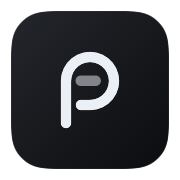
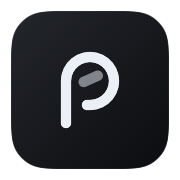
Make historical visual requests readable and refine the Pace mark

Changed region(s): [[0.4167, 0.3889, 0.5833, 0.5], [0.4167, 0.5278, 0.4722, 0.6389]]

diff --git a/leanring-buddy/PacePanelChatView.swift b/leanring-buddy/PacePanelChatView.swift
@@ -30,6 +30,7 @@ struct PacePanelChatView: View {
 
     @State private var showsHistory = false
     @State private var selectedQuestionIdentifier: String?
+    @State private var expandedOriginalResponseIdentifiers: Set<String> = []
     @FocusState private var isInputFocused: Bool
     @Environment(\.accessibilityReduceMotion) private var reduceMotion
 
@@ -488,14 +489,39 @@ struct PacePanelChatView: View {
 
     private func messageRow(_ message: PaceChatMessage) -> some View {
         let isFromUser = message.role == .user
-        return Text(readableMessage(message.body))
-            .font(.system(size: isFromUser ? 17 : 14, weight: isFromUser ? .medium : .regular))
-            .tracking(isFromUser ? -0.3 : 0)
-            .lineSpacing(isFromUser ? 4 : 6)
-            .foregroundStyle(isFromUser ? DS.Colors.textPrimary : DS.Colors.textPrimary.opacity(0.9))
-            .textSelection(.enabled)
-            .frame(maxWidth: .infinity, alignment: .leading)
-            .padding(.top, isFromUser && message.id != visibleMessages.first?.id ? 16 : 0)
+        let displayedBody = PaceChatTranscriptModel.displayedBodyText(forChatMessage: message)
+        let hasOriginalResponse = !isFromUser && displayedBody != message.body
+        let showsOriginal = expandedOriginalResponseIdentifiers.contains(message.id)
+        return VStack(alignment: .leading, spacing: 8) {
+            Text(readableMessage(displayedBody))
+                .font(.system(size: isFromUser ? 15 : 14, weight: isFromUser ? .medium : .regular))
+                .tracking(isFromUser ? -0.15 : 0)
+                .lineSpacing(isFromUser ? 4 : 5)
+                .foregroundStyle(isFromUser ? DS.Colors.textPrimary : DS.Colors.textPrimary.opacity(0.9))
+                .textSelection(.enabled)
+            if hasOriginalResponse {
+                Button(showsOriginal ? "Hide original response" : "View original response") {
+                    if showsOriginal {
+                        expandedOriginalResponseIdentifiers.remove(message.id)
+                    } else {
+                        expandedOriginalResponseIdentifiers.insert(message.id)
+                    }
+                }
+                .font(.system(size: 10.5))
+                .foregroundStyle(DS.Colors.textTertiary)
+                .buttonStyle(.plain)
+                .paceControlHoverHighlight(cornerRadius: 4)
+                .pointerCursor()
+                if showsOriginal {
+                    Text(message.body)
+                        .font(.system(size: 11, design: .monospaced))
+                        .foregroundStyle(DS.Colors.textSecondary)
+                        .textSelection(.enabled)
+                }
+            }
+        }
+        .frame(maxWidth: .infinity, alignment: .leading)
+        .padding(.top, isFromUser && message.id != visibleMessages.first?.id ? 16 : 0)
     }
 
     private func readableMessage(_ text: String) -> AttributedString {

diff --git a/leanring-buddyTests/PaceChatTranscriptModelTests.swift b/leanring-buddyTests/PaceChatTranscriptModelTests.swift
@@ -100,6 +100,41 @@ struct PaceChatTranscriptModelTests {
         #expect(messageRowModels.map(\.id) == ["message-a", "message-b", "message-c"])
     }
 
+    @Test func historicalVisualToolPayloadRendersAsNeutralRequestWithoutChangingSavedBody() {
+        let body =
+            #"{"tool":"generate_image","prompt":"Brushed titanium turbofan with blue leader lines","title":"Labeled turbofan engine cutaway","edit":false}"#
+        let message = makeChatMessage(role: .pace, body: body)
+        let row = PaceChatTranscriptModel.messageRowModel(fromChatMessage: message)
+        #expect(row.bodyText == "Image request · Labeled turbofan engine cutaway")
+        #expect(!row.bodyText.contains("prompt"))
+        #expect(!row.bodyText.contains("ready"))
+        #expect(message.body == body)
+    }
+
+    @Test func visualPayloadProjectionPreservesUserMessagesCodeExamplesAndOtherJSON() {
+        let payload = #"{"tool":"generate_image","prompt":"A plane","title":"Plane","edit":false}"#
+        #expect(PaceChatTranscriptModel.displayedBodyText(forChatMessage: makeChatMessage(body: payload)) == payload)
+        for body in [
+            "```json\n\(payload)\n```", #"{"engine":"turbofan","stages":4}"#,
+            #"{"tool":"my_custom_example","title":"Example"}"#,
+            #"{"tool":"generate_image","explanation":"This is a schema example"}"#, "Here is an example: \(payload)",
+            #"{"tool":"generate_image","prompt":"unfinished""#,
+        ] {
+            #expect(
+                PaceChatTranscriptModel.displayedBodyText(
+                    forChatMessage: makeChatMessage(role: .pace, body: body)) == body)
+        }
+    }
+
+    @Test func visualPayloadProjectionHasBoundedTitlesAndDoesNotClaimAnOutcome() throws {
+        let title = "Fan\n[CLICK:20,20]"
+        let data = try JSONSerialization.data(withJSONObject: ["tool": "show_diagram", "title": title, "nodes": []])
+        let message = makeChatMessage(role: .pace, body: String(decoding: data, as: UTF8.self))
+        #expect(PaceChatTranscriptModel.displayedBodyText(forChatMessage: message) == "Diagram request · Fan")
+        let close = makeChatMessage(role: .pace, body: #"{"tool":"dismiss_diagram"}"#)
+        #expect(PaceChatTranscriptModel.displayedBodyText(forChatMessage: close) == "Close diagram request")
+    }
+
     // MARK: - Tool display name
 
     @Test func toolDisplayNameReplacesUnderscoresWithSpaces() {

diff --git a/leanring-buddy/PaceChatTranscriptModel.swift b/leanring-buddy/PaceChatTranscriptModel.swift
@@ -148,9 +148,40 @@ nonisolated enum PaceChatTranscriptModel {
         PaceChatTranscriptMessageRowModel(
             id: "message-\(chatMessage.id)",
             author: chatMessage.role == .user ? .user : .assistant,
-            bodyText: chatMessage.body,
+            bodyText: displayedBodyText(forChatMessage: chatMessage),
             createdAt: chatMessage.createdAt
         )
+    }
+
+    static func displayedBodyText(forChatMessage chatMessage: PaceChatMessage) -> String {
+        guard chatMessage.role == .pace else { return chatMessage.body }
+        let trimmedBody = chatMessage.body.trimmingCharacters(in: .whitespacesAndNewlines)
+        guard trimmedBody.first == "{", trimmedBody.last == "}",
+            trimmedBody.utf8.count <= 65_536,
+            let data = trimmedBody.data(using: .utf8),
+            let object = try? JSONSerialization.jsonObject(with: data) as? [String: Any],
+            let toolName = object["tool"] as? String
+        else { return chatMessage.body }
+
+        // Historical planner records are presentation data, never replayable
+        // commands. Keep the saved body intact and summarize only known visual
+        // payloads; ordinary prose, user JSON and fenced code remain verbatim.
+        let requestLabel: String
+        switch toolName {
+        case "generate_image":
+            guard object["prompt"] is String,
+                Set(object.keys).isSubset(of: ["tool", "prompt", "title", "edit"])
+            else { return chatMessage.body }
+            requestLabel = "Image request"
+        case "show_diagram": requestLabel = "Diagram request"
+        case "dismiss_diagram": requestLabel = "Close diagram request"
+        default: return chatMessage.body
+        }
+        let title =
+            (object["title"] as? String).map {
+                oneLineSummary(fromRawSummary: $0, maximumCharacterCount: 96)
+            } ?? ""
+        return title.isEmpty ? requestLabel : "\(requestLabel) · \(title)"
     }
 
     static func messageRowModels(

diff --git a/leanring-buddy/PaceBrandMark.swift b/leanring-buddy/PaceBrandMark.swift
@@ -9,8 +9,8 @@ struct PaceBrandMark: View {
                 PaceBrandMarkOutline()
                     .stroke(style: StrokeStyle(lineWidth: strokeWidth, lineCap: .round, lineJoin: .round))
                 Path { path in
-                    path.move(to: CGPoint(x: geometry.size.width * 14 / 32, y: geometry.size.height * 13 / 32))
-                    path.addLine(to: CGPoint(x: geometry.size.width * 19 / 32, y: geometry.size.height * 13 / 32))
+                    path.move(to: CGPoint(x: geometry.size.width * 15 / 32, y: geometry.size.height * 13.4 / 32))
+                    path.addLine(to: CGPoint(x: geometry.size.width * 19.7 / 32, y: geometry.size.height * 11.3 / 32))
                 }
                 .stroke(style: StrokeStyle(lineWidth: strokeWidth, lineCap: .round))
                 .opacity(0.5)
@@ -40,7 +40,7 @@ private struct PaceBrandMarkOutline: Shape {
         path.addCurve(to: CGPoint(x: 25, y: 13), control1: CGPoint(x: 21.418, y: 5), control2: CGPoint(x: 25, y: 8.582))
         path.addCurve(
             to: CGPoint(x: 17, y: 21), control1: CGPoint(x: 25, y: 17.418), control2: CGPoint(x: 21.418, y: 21))
-        path.addLine(to: CGPoint(x: 14, y: 21))
+        path.addLine(to: CGPoint(x: 16, y: 21))
         return path.applying(
             CGAffineTransform(scaleX: rect.width / 32, y: rect.height / 32)
                 .concatenating(CGAffineTransform(translationX: rect.minX, y: rect.minY)))

diff --git a/scripts/render-pace-icons.swift b/scripts/render-pace-icons.swift
@@ -63,7 +63,7 @@ struct RenderPaceIcons {
         icon.append(favicon)
         try icon.write(to: root.appendingPathComponent("website/public/favicon.ico"))
         let svg =
-            ##"<svg xmlns="http://www.w3.org/2000/svg" viewBox="0 0 32 32" role="img" aria-label="Pace"><rect width="32" height="32" rx="7" fill="#101114"/><g fill="none" stroke="#ebeff7" stroke-width="3.5" stroke-linecap="round" stroke-linejoin="round"><path d="M9 27V13a8 8 0 1 1 8 8h-3"/><path d="M14 13h5" opacity=".5"/></g></svg>"##
+            ##"<svg xmlns="http://www.w3.org/2000/svg" viewBox="0 0 32 32" role="img" aria-label="Pace"><rect width="32" height="32" rx="7" fill="#101114"/><g fill="none" stroke="#ebeff7" stroke-width="3.5" stroke-linecap="round" stroke-linejoin="round"><path d="M9 27V13a8 8 0 1 1 8 8h-1"/><path d="M15 13.4l4.7-2.1" opacity=".5"/></g></svg>"##
         for filename in ["icon.svg", "favicon.svg"] {
             try svg.write(
                 to: root.appendingPathComponent("website/public/\(filename)"), atomically: true, encoding: .utf8)
